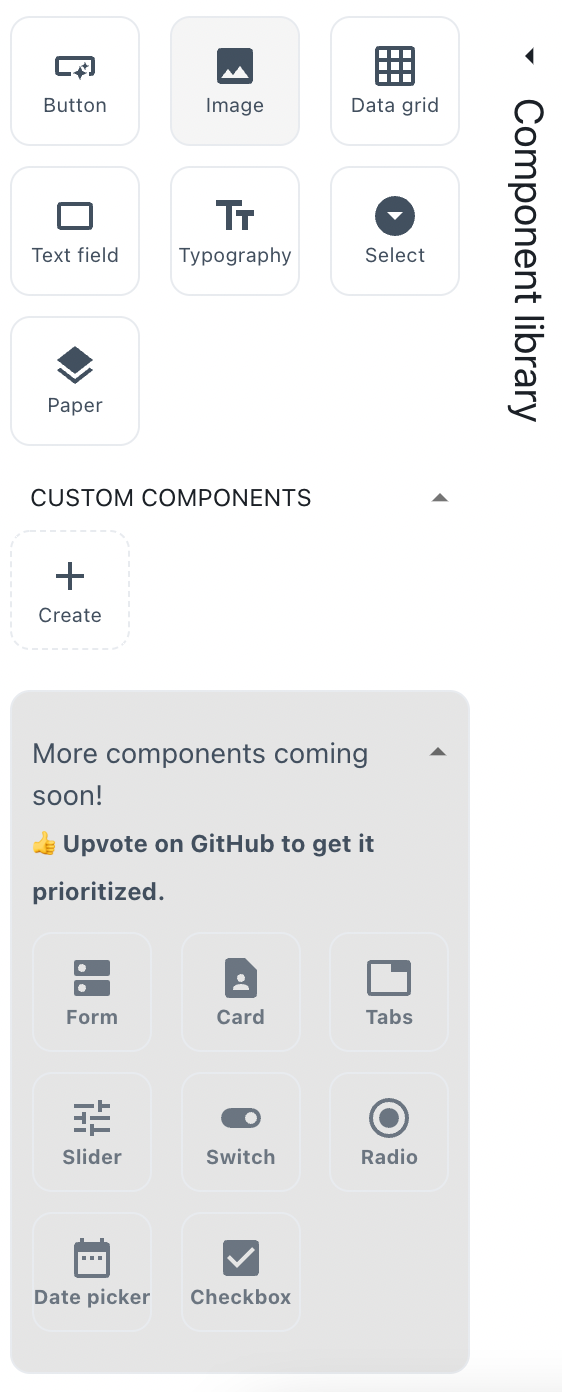
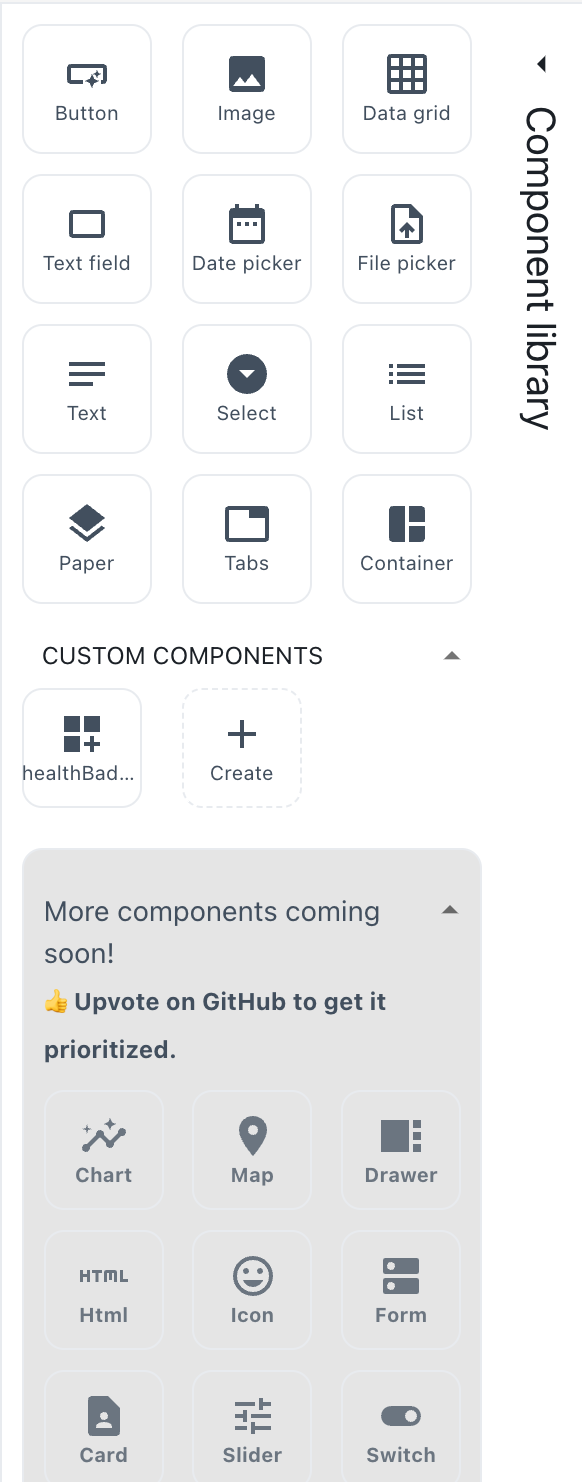
minor improvements
Overall docs look good.

diff --git a/docs/data/toolpad/connecting-to-datasources/queries.md b/docs/data/toolpad/connecting-to-datasources/queries.md
@@ -2,7 +2,7 @@
 
 <p class="description">Toolpad allows you to bring remote data as state to the page and allows your UI to bind itself to this state.</p>
 
-Be it a database table or an external API, most data we want to display ijn Toolpad pages originates serverside. Toolpad offers mechanisms to bring this serverside data to the page. The most common way are **queries**. To configure a query we need to follow these steps:
+Be it a database table or an external API, most data we want to display in Toolpad pages originates serverside. Toolpad offers mechanisms to bring this serverside data to the page. The most common way is through **queries**. To configure a query we need to follow these steps:
 
 1. Click **Add query** button in the **Inspector** on the right:
 
@@ -15,7 +15,7 @@ Be it a database table or an external API, most data we want to display ijn Tool
    - [serverside JavaScript](/toolpad/connecting-to-datasources/serverside-javascript/) - Write serverside JavaScript functions and their result will be automatically made available on the page. These have full access to the Node.js environment they run under.
    - [serverside HTTP request](/toolpad/connecting-to-datasources/serverside-http-request/) - Basic, but very powerful. Just pass URL of an API endpoint and you are ready to query your data.
 
-   CLick any of these to start configuration.
+   Click any of these to start configuration.
 
 1. There are a few configuration options that are applicable to every query type:
 
@@ -24,5 +24,5 @@ Be it a database table or an external API, most data we want to display ijn Tool
    - **mode**
      - **Fetch at any time to always be availabe on the page** - Execute the query automatically to make sure the latest data is always available on the page. Use this when you want to display remote data in the UI. The data must be idempotent, the query will be retried on error and executed on regular times to make sure the data on the page is up to date.
      - **Only fetch on manual action** - The query has to be executed manually.
-   - **Enabled** - Whether the query should be active, you can use this to disable fetching until certain conditions are met. It may for instance be dependant on certain input
-   - **Refetch interval** - you can configure the query to run on an interval, e.g. **every 30s**. To disable this option, keep the field empty.
+   - **Enabled** - Whether the query should be active, you can use this to disable fetching until certain conditions are met. It may for instance be dependant on certain input.
+   - **Refetch interval** - You can configure the query to run on an interval, e.g. **every 30s**. To disable this option, keep the field empty.

diff --git a/docs/data/toolpad/getting-started/quickstart.md b/docs/data/toolpad/getting-started/quickstart.md
@@ -32,7 +32,7 @@ Make sure to [install Node.js](https://nodejs.org/en/) on your system.
 1. Start the development server
 
    ```sh
-   cd my-app
+   cd dog-app
    npm run dev
    ```
 
@@ -40,7 +40,7 @@ Make sure to [install Node.js](https://nodejs.org/en/) on your system.
 
 ### Assemble the UI
 
-1. Hover over **Component library** and drag DataGrid component into **Canvas**. Now repeat the process and drag an Image component on the **Canvas** as well. When you're done, the canvas should like like follows:
+1. Hover over **Component library** and drag DataGrid component into **Canvas**. Now repeat the process and drag an Image component on the **Canvas** as well. When you're done, the canvas should look like:
 
    <img src="/static/toolpad/docs/quickstart/step-2.png" alt="Drag components" width="1512px" />
 
@@ -68,11 +68,11 @@ Make sure to [install Node.js](https://nodejs.org/en/) on your system.
 
 1. Click the DataGrid component to select it.
 
-1. Find the "rows" property in the **Inspector**. notice there's a small link icon to the right of it. All bindable properties in Toolpad can be bound to state ont he page. You can identify bindable properties by this link icon.
+1. Find the "rows" property in the **Inspector**. Notice there's a small link icon to the right of it. All bindable properties in Toolpad can be bound to state on the page. You can identify bindable properties by this link icon.
 
    <img src="/static/toolpad/docs/quickstart/step-7.png" alt="Bind data" width="295px" />
 
-   Click the icon to open the binding editor.On the left you'll see a list of all bindable state in the page, on the right there's a code editor that accepts any JavaScript expression. All bindable state is available in the scope of this expression.
+   Click the icon to open the binding editor. On the left you'll see a list of all bindable state in the page, on the right there's a code editor that accepts any JavaScript expression. All bindable state is available in the scope of this expression.
 
 1. Use a `dogQuery` variable available in the scope as a binding expression.
 
@@ -104,7 +104,7 @@ Make sure to [install Node.js](https://nodejs.org/en/) on your system.
 
    <img src="/static/toolpad/docs/quickstart/step-12.png?v=0" alt="url binding" width="1191px" />
 
-   CLick **Save** to exit the query editor.
+   Click **Update binding** to exit the query editor.
 
 1. In the **canvas** select the Image component and bind **src** prop to `imageQuery.data.message`. Try selecting different rows in the datagrid to see the image update to a random image of the selected breed.
 

diff --git a/docs/data/toolpad/building-ui/component-library.md b/docs/data/toolpad/building-ui/component-library.md
@@ -18,10 +18,11 @@ Currently supported components:
 - [Text Field](https://mui.com/material-ui/react-text-field/) - Capture text from user input.
 - [Date Picker](https://mui.com/x/react-date-pickers/date-picker/) - Select a date from a date picker.
 - File Picker - Select a local file.
-- [Text](https://mui.com/material-ui/react-typography/) - present text content. Can be either plain text, markdow or links.
+- [Text](https://mui.com/material-ui/react-typography/) - Present text content. Can be either plain text, markdow or links.
 - [Select](https://mui.com/material-ui/react-select/) - Capture user input from a list of options.
 - [Paper](https://mui.com/material-ui/react-paper/) - Provide a visual differantation for your components
 - [Tabs](https://mui.com/material-ui/react-tabs/) - A tabs strip that can be used to toggle different pages.
 - [Container](https://mui.com/material-ui/react-container/) - A wrapper element that can be used to hide or show its children.
+- List - An array of components presented as a repeating list.
 
 We are working hard to add even more components. To make it easier for us to understand what should be added first, please help by [upvoting](https://github.com/mui/mui-toolpad/labels/waiting%20for%20%F0%9F%91%8D)

diff --git a/docs/data/toolpad/connecting-to-datasources/serverside-javascript.md b/docs/data/toolpad/connecting-to-datasources/serverside-javascript.md
@@ -79,7 +79,7 @@ This will make the `value` property available in the query editor to be bound to
 
 ## Secrets
 
-As these functions are running fully serverside they have access to the available environmnet variables through `process.env.DB_PASS`. Toolpad reads the `.env` file at the root of the project and will load its values in the environment.
+As these functions are running fully serverside they have access to the available environment variables through `process.env.DB_PASS`. Toolpad reads the `.env` file at the root of the project and will load its values in the environment.
 
 An example `.env` file:
 

diff --git a/docs/data/toolpad/getting-started/installation.md b/docs/data/toolpad/getting-started/installation.md
@@ -4,7 +4,7 @@
 
 ## Create a Toolpad app
 
-Start by opening a terminal and `cd` into a folder you'd like to create your applicarion in. Then runt he command
+Start by opening a terminal and `cd` into a folder you'd like to create your applicarion in. Then run the command
 
 ```sh
 npx create-toolpad-app my-app
